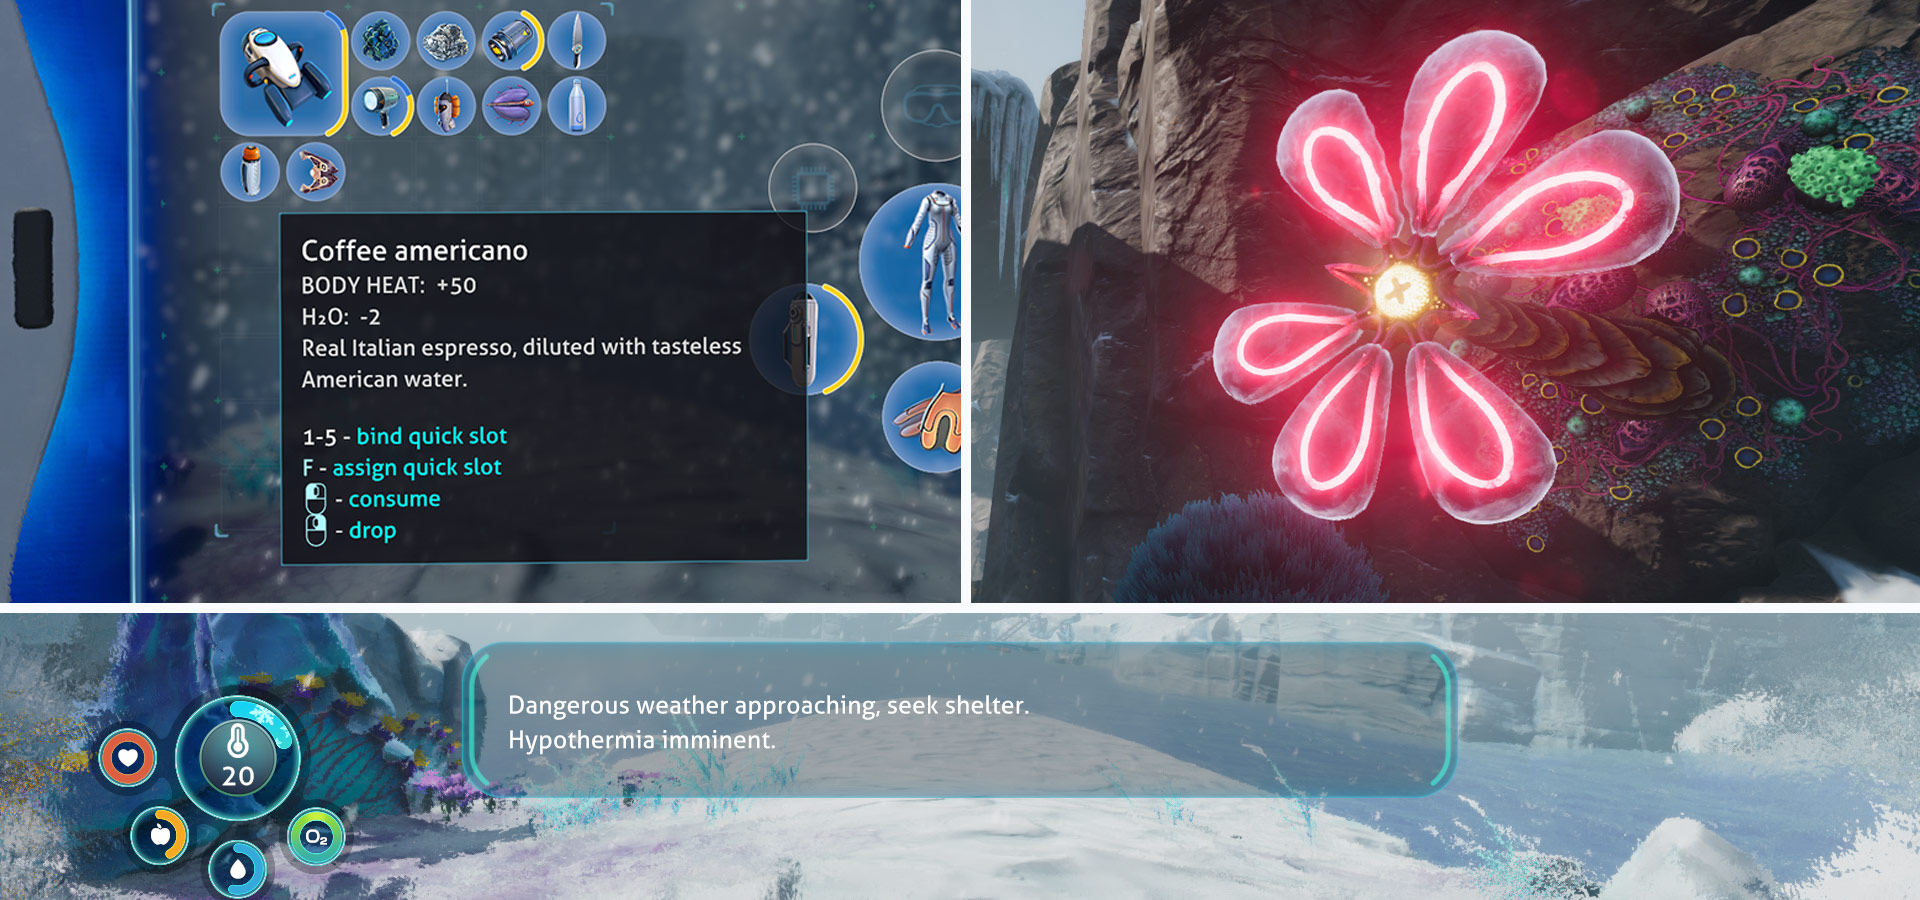
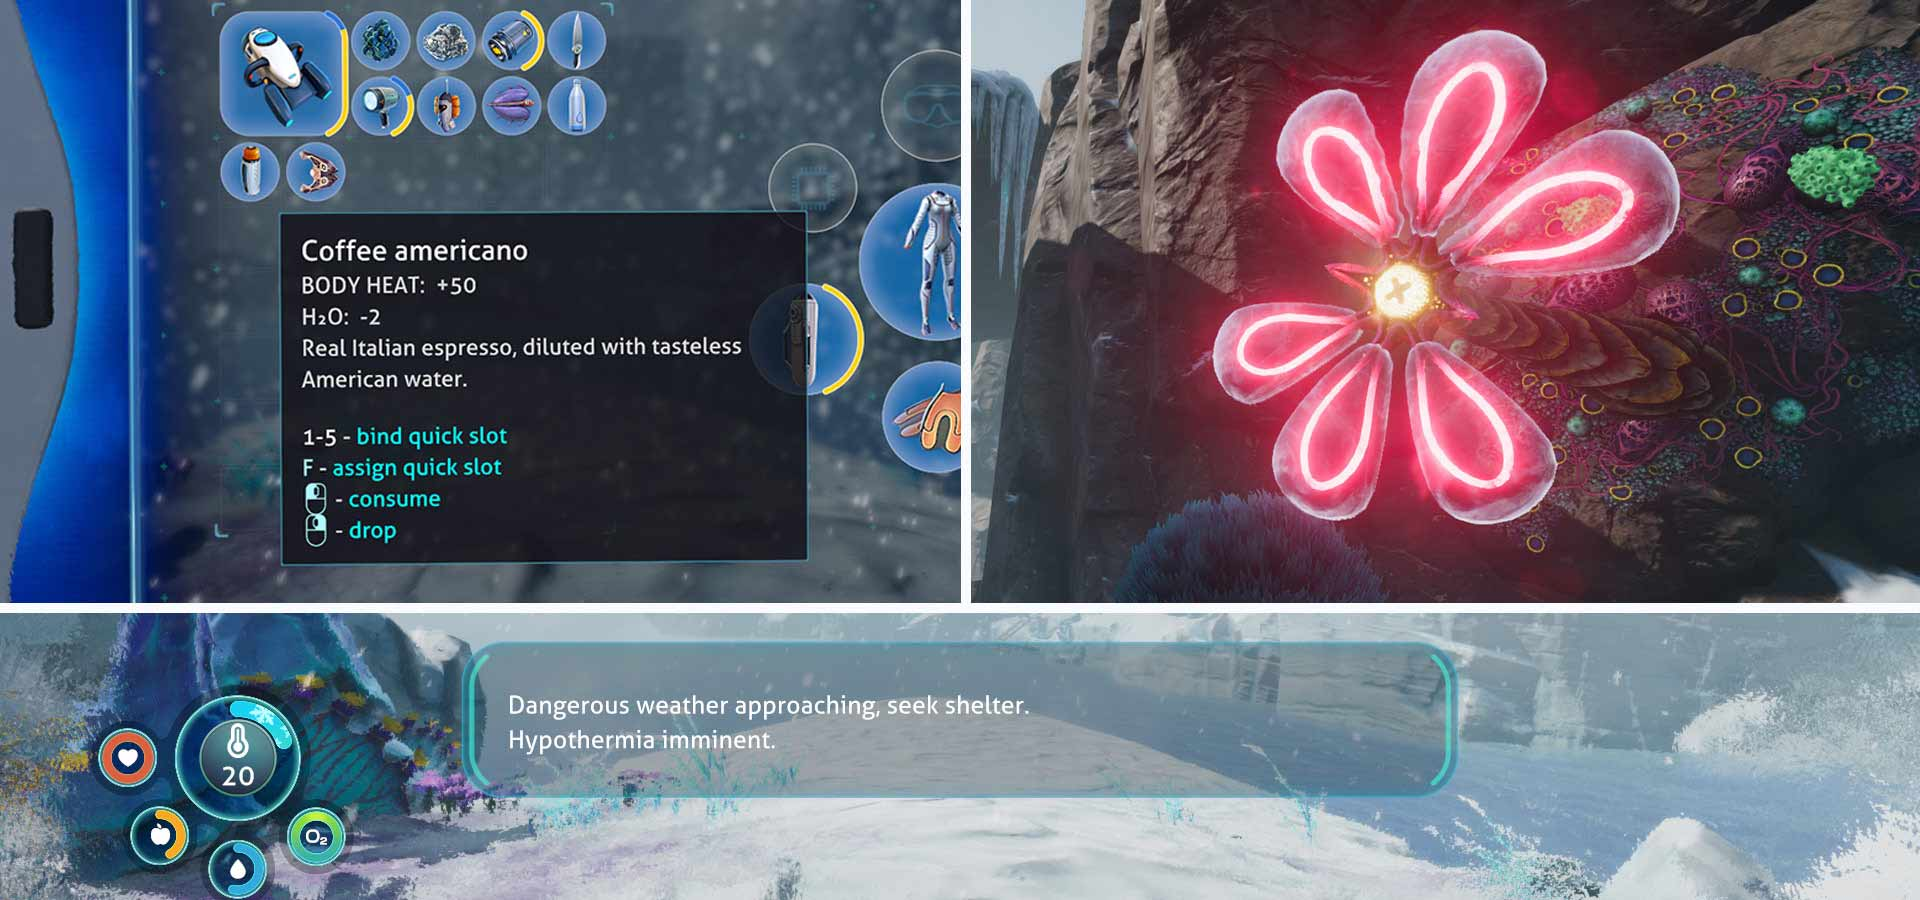
replacing all images with optimized

diff --git a/snbz-frostbite-update/index.html b/snbz-frostbite-update/index.html
@@ -2140,19 +2140,19 @@
     }
 
     #surface-beacons {
-        background-image: url('./images/beacon.png');
+        background-image: url('./images/beacon.jpg');
     }
 
     #quantum-locker {
-        background-image: url('./images/quantum-locker.png');
+        background-image: url('./images/quantum-locker.jpg');
     }
 
     #snowballs {
-        background-image: url('./images/snowball.png');
+        background-image: url('./images/snowball.jpg');
     }
 
     #purification-tablets {
-        background-image: url('./images/tablets.png');
+        background-image: url('./images/tablets.jpg');
     }
 
     #world-polish {
@@ -2181,19 +2181,19 @@
     }
 
     #polish-1 {
-        background-image: url('./images/polish-1.png');  
+        background-image: url('./images/polish-1.jpg');  
     }
 
     #polish-2 {
-        background-image: url('./images/polish-2.png');
+        background-image: url('./images/polish-2.jpg');
     }
 
     #polish-3 {
-        background-image: url('./images/polish-3.png');
+        background-image: url('./images/polish-3.jpg');
     }
 
     #polish-4 {
-        background-image: url('./images/polish-4.png');
+        background-image: url('./images/polish-4.jpg');
     }
 
     #status-icons {
@@ -2204,11 +2204,11 @@
     }
 
     #ore-vein {
-        background-image: url('./images/ore-vein.png');
+        background-image: url('./images/ore-vein.jpg');
     }
 
     #crisp-text {
-        background-image: url('./images/text-after.png');
+        background-image: url('./images/text-after.jpg');
         height: 30vh;
         z-index: 2;
         flex-basis: 30%;
@@ -2220,7 +2220,7 @@
     }
 
     #after-image {
-        background-image: url('./images/text-after.png');
+        background-image: url('./images/text-after.jpg');
     }
 
     #ui-improvements .narrow-text {
@@ -2276,7 +2276,7 @@
     }
 
     #twitter {
-        background-image: url('./images/twitter.png');
+        background-image: url('./images/twitter.jpg');
     }
 
     @media only screen and (max-width : 480px) {
@@ -2457,7 +2457,7 @@
         position: relative;
         overflow: hidden; 
         min-height: 100vh; 
-        background-image: url('./images/footer.png');
+        background-image: url('./images/footer.jpg');
         background-size: cover;
         margin-right: 0px;
         margin-left: 0px;
